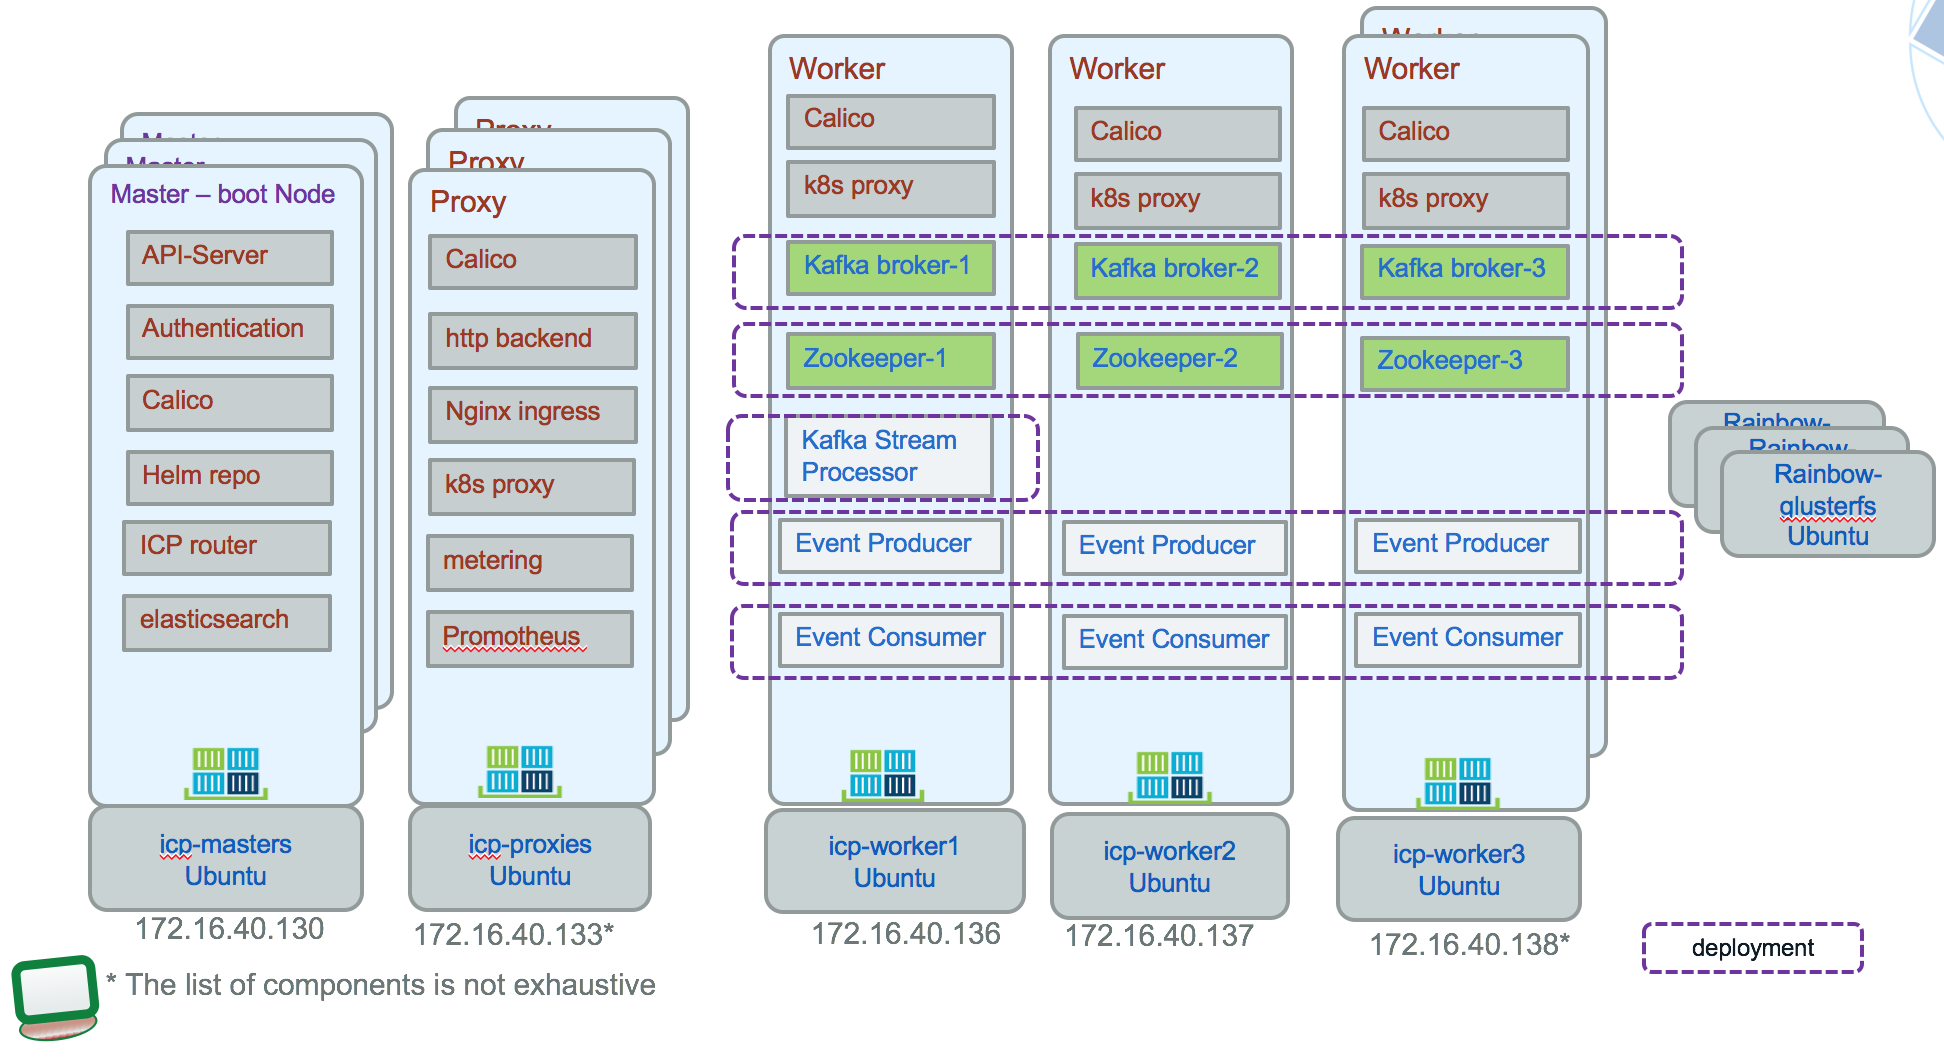
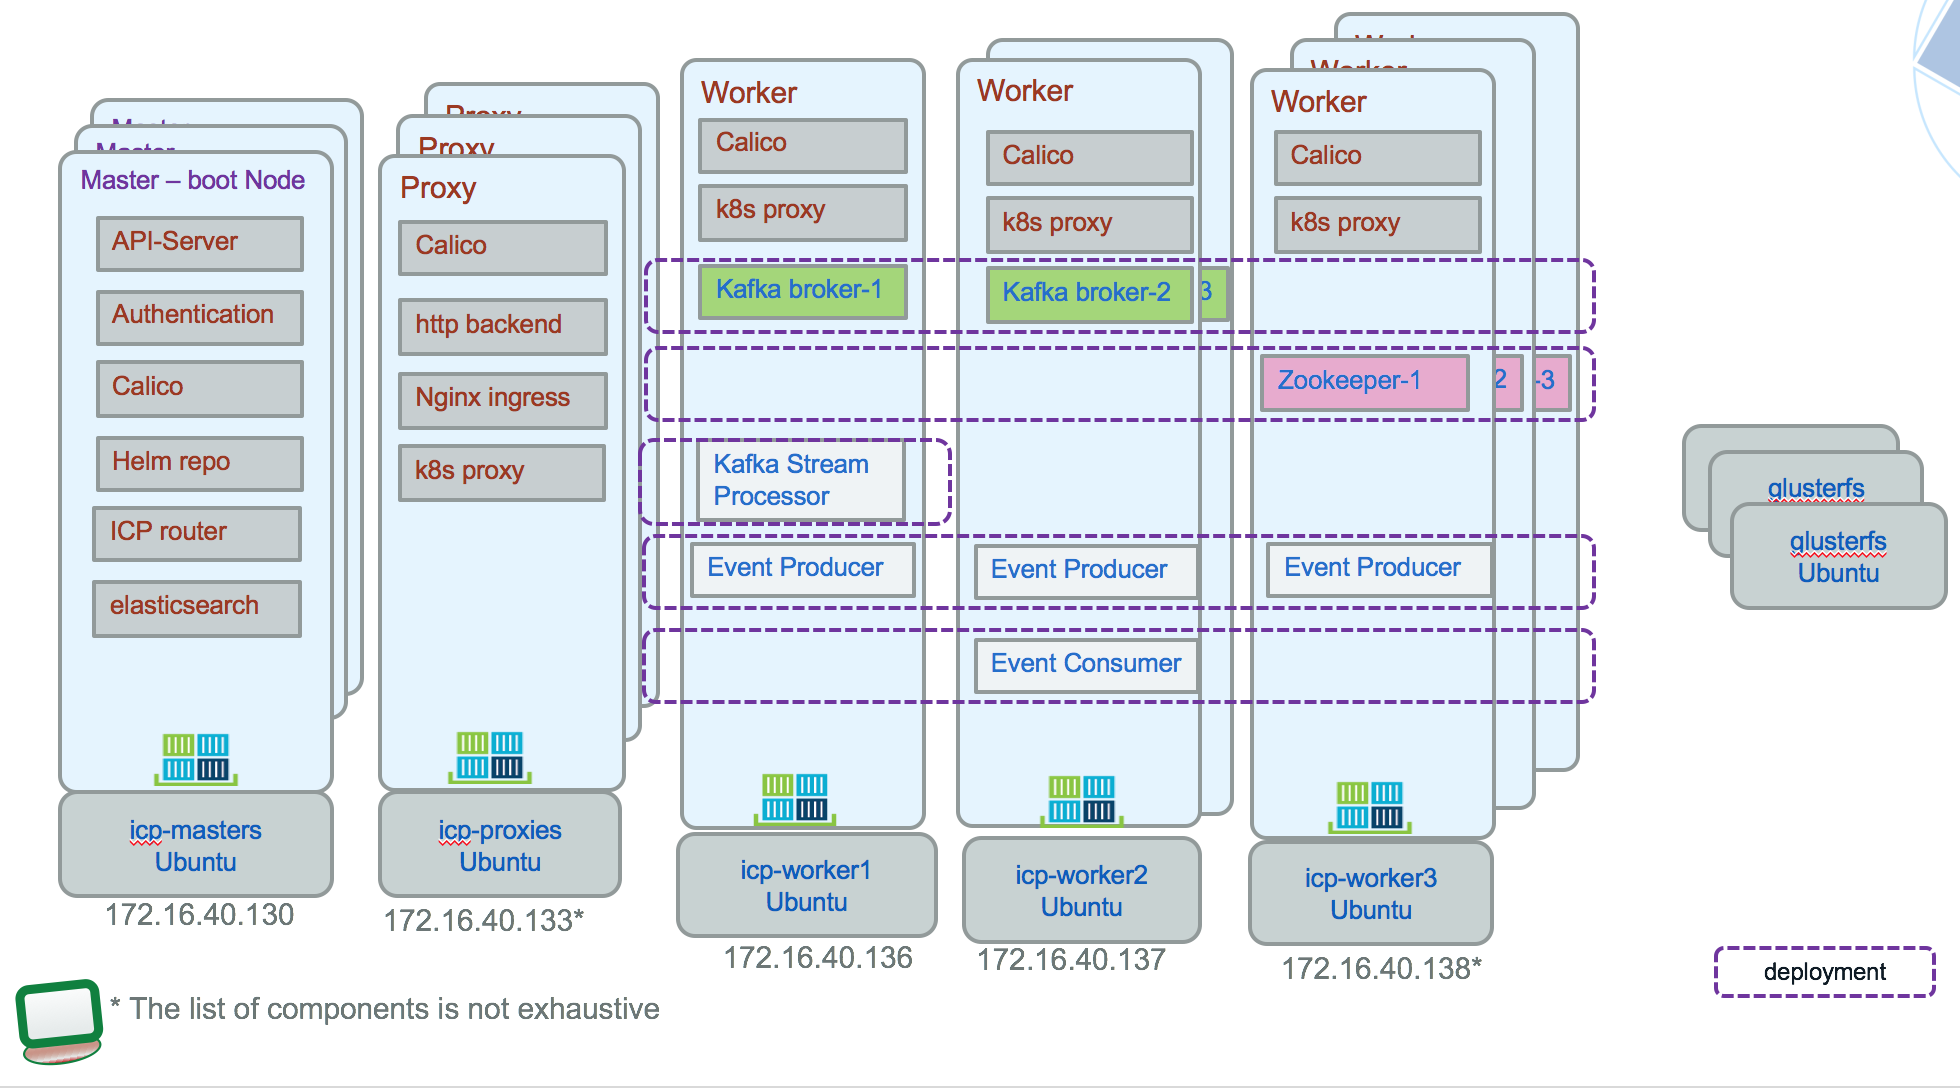
change k8s deployment diagram and explanation

diff --git a/docs/kafka/readme.md b/docs/kafka/readme.md
@@ -84,21 +84,31 @@ For IBM Cloud private HA installation see the [product documentation](https://ww
 
 Traditionally disaster recovery and high availability were always consider separated subjects. Now active/active deployment where workloads are deployed in different data center, are more a common request. IBM Cloud Private is supporting [federation cross data centers](https://github.com/ibm-cloud-architecture/refarch-privatecloud/blob/master/Resiliency/Federating_ICP_clusters.md), but you need to ensure to have low latency network connections. Also not all deployment components of a solution are well suited for cross data center clustering.
 
-In Kafka context, the **Confluent** web site presents an interesting article for [kafka production deployment](https://docs.confluent.io/current/kafka/deployment.html). Their recommendation is to avoid cluster that span multiple data centers and specially long distance ones. But the semantic of the event processing may authorize some adaptations. For sure you need multiple Kafka Brokers, which will connect to the same ZooKeeper ensemble running at least three nodes.
+In Kafka context, the **Confluent** web site presents an interesting article for [kafka production deployment](https://docs.confluent.io/current/kafka/deployment.html). One of their recommendation is to avoid cluster that span multiple data centers and specially long distance ones. But the semantic of the event processing may authorize some adaptations. For sure you need multiple Kafka Brokers, which will connect to the same ZooKeeper ensemble running at least three nodes.
 
 When deploying Kafka within kubernetes cluster the following diagram illustrates a minimum HA topology with three node for kafka and three for zookeeper:
 ![](kafka-k8s.png)
+
+This schema illustrates the recommendation to separate Zookeeper from Kafka nodes for failover purpose as zookeeper keeps state of the kafka cluster. Kafka uses the log.dirs property to configure the driver to persist logs. So you need to define multiple volumes/ drives to support log.dirs.
+
+Zookeeper should not be used by other systems.
 
 For configuring ICP for HA on VmWare read [this note](https://github.com/ibm-cloud-architecture/refarch-privatecloud/blob/master/Configuring_ICP_for_HA_on_VMware.md).
 
 For Kafka streaming with stateful processing like joins, event aggregation and correlation coming from multiple partitions, it is not easy to achieve high availability cross clusters: in the strictest case every event must be processed by the streaming service exactly once. Which means:
 * producer emit data to different sites and be able to re-emit in case of failure. Brokers are known by producer via a list of hostname and port number.
-* Communication between zookeeper and cluster node are redundant and safe for data losses
-* Consumer ensures idempotence... They have to tolerate data duplication and manage data integrity in their persistence layer.
+* communications between zookeeper and cluster node are redundant and safe for data losses
+* consumer ensures idempotence... They have to tolerate data duplication and manage data integrity in their persistence layer.
 
-Within kafka's boundary, data will not be lost, when doing proper configuration but the heavy lifting is for the producer and consumer implementation to support cross cluster HA.
-For configuration you need to ensure:
-* partition replication for at least 3 replicas. Recall that in case of node failure,  coordination of partition re-assignments is provided with Apache ZooKeeper.
+Within kafka's boundary, data will not be lost, when doing proper configuration, also to support high availability the complexity moves to the producer and the consumer implementation .
+
+Kafka configuration is an art and you need to tune the parameters by use case:
+* partition replication for at least 3 replicas. Recall that in case of node failure,  coordination of partition re-assignments is provided with ZooKeeper.
+* end to end latency needs to be measured from producer (when a message is sent) to consumer when it is read. A consumer is able to get a message when the broker finishes to replicate to all in-synch replicas.
+* use the producer buffering capability to pace the message to the broker. Can use memory or time based threshold.
+* Define the number of partitions to drive consumer parallelism. More consumers running in parallel the higher is the throughtput.
+* Assess the retention hours to control when old messages in topic can be deleted
+* Control the maximum message size the server can receive.    
 
 ## Run Kafka in Docker
 ### On Linux
